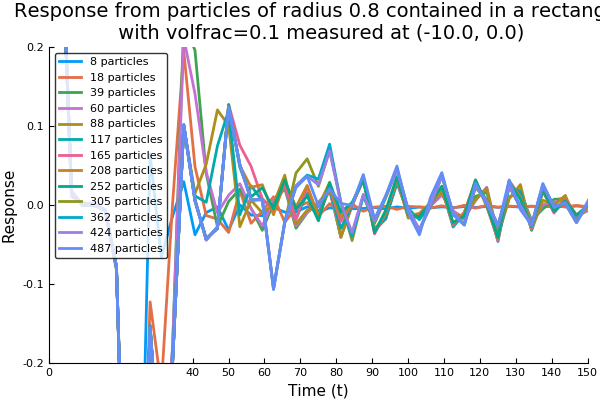
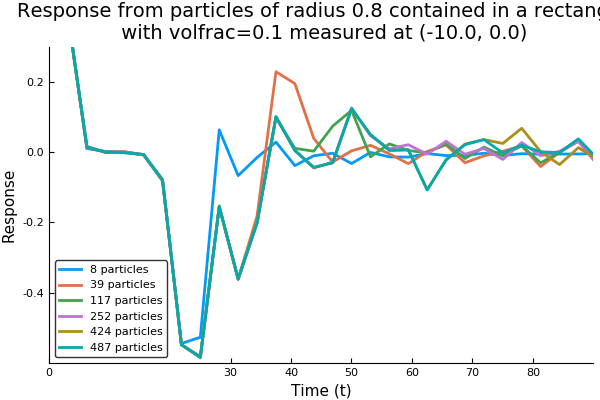
same

diff --git a/example/near_surface_backscattering/README.md b/example/near_surface_backscattering/README.md
@@ -52,22 +52,24 @@ differences = [norm(b - bM) for b in backscattered_waves[1:(M-1)]]./norm(bM)
 plot_converge = plot(num_particles[1:(M-1)], differences, xlabel = "number of particles", ylabel ="error %", label="frequency convergence")
 ```
 ![The convergence of the response in frequency, when increasing the number of particles](freq_convergence.png)
+
 The graph shows the rate of convergence, that is, it tell us how many particles we need before the backscattered wave no longer changes.
 ```julia
 time_simulations = TimeSimulation.(simulations)
 
-times = 2*(widths .- listener_position[1]) # time if takes for an incident plane wave to reach the furthest particles and then return to the receiver
+times = 2*(widths[1:5] .- listener_position[1]) # time if takes for an incident plane wave to reach the furthest particles and then return to the receiver
 
 plot()
-for i=1:length(num_particles)
+for i=i in [1,3,6,9,12,13]
     plot!(time_simulations[i],label="$(num_particles[i]) particles"
-        , xlims=(0,maximum(xticks)+10.), ylims=(-0.2,0.2)
+        , xlims=(0,maximum(times)+10.), ylims=(-0.6,0.3)
         , xticks = [0.; times]
     )
 end
 gui()
 ```
 ![The responses in time for different quantity of particles](time_response.png)
+
 We see that the responses in time diverge from each other more and more as time goes by. Meaning that if we only calculate the response for a short amount of time `34`, then the convergence will be accelerated.
 
 ```julia
